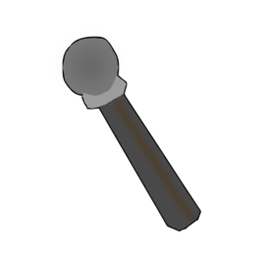
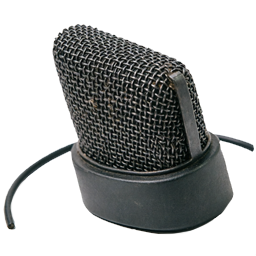
体验优化与内容更新
1.新增了罕见遗物《直播间管理办法》。
2.重新启用了专属遗物消音麦。
3.重做了卡牌软脚，现在为0费能力牌，可提供能量与抽牌。
4.调整了最终攻克、渗透、回踩升级的数值与效果，渗透现在可一次性施加多层易伤与虚弱。
5.调整了杯级丧失的结算时机，并优化了礼尚往来的触发条件。
6.更新了部分卡牌图片与本地化文本。

diff --git a/Scripts/Relics/NoiseCancelingMicrophone.cs b/Scripts/Relics/NoiseCancelingMicrophone.cs
@@ -1,119 +1,119 @@
-// using BaseLib.Abstracts;
-// using BaseLib.Utils;
-// using MegaCrit.Sts2.Core.Commands;
-// using MegaCrit.Sts2.Core.Models;
-// using MegaCrit.Sts2.Core.Entities.Relics;
-// using StsModBloodywolf.Scripts.Pools;
-// using StsModBloodywolf.Scripts.Powers;
-// using MegaCrit.Sts2.Core.GameActions.Multiplayer;
-// using MegaCrit.Sts2.Core.CardSelection;
-// using StsModBloodywolf.Scripts.Cards;
-// using MegaCrit.Sts2.Core.HoverTips;
-// using MegaCrit.Sts2.Core.Entities.Players;
-// using MegaCrit.Sts2.Core.Rooms;
-// using MegaCrit.Sts2.Core.Entities.Cards;
-// using MegaCrit.Sts2.Core.Localization.DynamicVars;
+using BaseLib.Abstracts;
+using BaseLib.Utils;
+using MegaCrit.Sts2.Core.Commands;
+using MegaCrit.Sts2.Core.Models;
+using MegaCrit.Sts2.Core.Entities.Relics;
+using StsModBloodywolf.Scripts.Pools;
+using StsModBloodywolf.Scripts.Powers;
+using MegaCrit.Sts2.Core.GameActions.Multiplayer;
+using MegaCrit.Sts2.Core.CardSelection;
+using StsModBloodywolf.Scripts.Cards;
+using MegaCrit.Sts2.Core.HoverTips;
+using MegaCrit.Sts2.Core.Entities.Players;
+using MegaCrit.Sts2.Core.Rooms;
+using MegaCrit.Sts2.Core.Entities.Cards;
+using MegaCrit.Sts2.Core.Localization.DynamicVars;
 
-// namespace StsModBloodywolf.Scripts.Relics;
+namespace StsModBloodywolf.Scripts.Relics;
 
-// [Pool(typeof(BloodywolfRelicPool))]
-// public class NoiseCancelingMicrophone : CustomRelicModel
-// {
-// 	protected override IEnumerable<DynamicVar> CanonicalVars => new List<DynamicVar>{
-// 		new EnergyVar("EnergyThreshold", 2),
-// 		new EnergyVar(1)
-// 	};
-// 	private bool _usedThisCombat;
-// 	private bool UsedThisCombat
-// 	{
-// 		get
-// 		{
-// 			return _usedThisCombat;
-// 		}
-// 		set
-// 		{
-// 			AssertMutable();
-// 			_usedThisCombat = value;
-// 		}
-// 	}
-//     // 稀有度
-//     public override RelicRarity Rarity => RelicRarity.Rare;
-//     // 小图标
-//     public override string PackedIconPath => $"res://StsModBloodywolf/images/relics/{Id.Entry.ToLowerInvariant()}.png";
-//     // 轮廓图标
-//     protected override string PackedIconOutlinePath => $"res://StsModBloodywolf/images/relics/{Id.Entry.ToLowerInvariant()}.png";
-//     // 大图标
-//     protected override string BigIconPath => $"res://StsModBloodywolf/images/relics/{Id.Entry.ToLowerInvariant()}.png";
-// 	public override Task BeforeCombatStart()
-// 	{
-// 		UsedThisCombat = false;
-// 		base.Status = RelicStatus.Active;
-// 		return Task.CompletedTask;
-// 	}
-// 	public override bool TryModifyEnergyCostInCombat(CardModel card, decimal originalCost, out decimal modifiedCost)
-// 	{
-// 		modifiedCost = originalCost;
-// 		if (card.Owner != base.Owner)
-// 		{
-// 			return false;
-// 		}
-// 		if (card.EnergyCost.GetWithModifiers(CostModifiers.None | CostModifiers.Local) < 2m)
-// 		{
-// 			return false;
-// 		}
-// 		if (card.EnergyCost.CostsX)
-// 		{
-// 			return false;
-// 		}
-// 		if (UsedThisCombat)
-// 		{
-// 			return false;
-// 		}
-// 		bool flag;
-// 		switch (card.Pile?.Type)
-// 		{
-// 		case PileType.Hand:
-// 		case PileType.Play:
-// 			flag = true;
-// 			break;
-// 		default:
-// 			flag = false;
-// 			break;
-// 		}
-// 		if (!flag)
-// 		{
-// 			return false;
-// 		}
-// 		modifiedCost = default(decimal);
-// 		return true;
-// 	}
-// 	public override async Task BeforeCardPlayed(CardPlay cardPlay)
-// 	{
-// 		if (cardPlay.Card.Owner == base.Owner && cardPlay.Card.EnergyCost.GetWithModifiers(CostModifiers.None | CostModifiers.Local) >= 2m && !cardPlay.Card.EnergyCost.CostsX && !UsedThisCombat)
-// 		{
-// 			bool flag;
-// 			switch (cardPlay.Card.Pile?.Type)
-// 			{
-// 			case PileType.Hand:
-// 			case PileType.Play:
-// 				flag = true;
-// 				break;
-// 			default:
-// 				flag = false;
-// 				break;
-// 			}
-// 			if (flag)
-// 			{
-// 				UsedThisCombat = true;
-// 				base.Status = RelicStatus.Normal;
-// 			}
-// 		}
-// 	}
+[Pool(typeof(BloodywolfRelicPool))]
+public class NoiseCancelingMicrophone : CustomRelicModel
+{
+	protected override IEnumerable<DynamicVar> CanonicalVars => new List<DynamicVar>{
+		new EnergyVar("EnergyThreshold", 2),
+		new EnergyVar(1)
+	};
+	private bool _usedThisCombat;
+	private bool UsedThisCombat
+	{
+		get
+		{
+			return _usedThisCombat;
+		}
+		set
+		{
+			AssertMutable();
+			_usedThisCombat = value;
+		}
+	}
+    // 稀有度
+    public override RelicRarity Rarity => RelicRarity.Rare;
+    // 小图标
+    public override string PackedIconPath => $"res://StsModBloodywolf/images/relics/{Id.Entry.ToLowerInvariant()}.png";
+    // 轮廓图标
+    protected override string PackedIconOutlinePath => $"res://StsModBloodywolf/images/relics/{Id.Entry.ToLowerInvariant()}.png";
+    // 大图标
+    protected override string BigIconPath => $"res://StsModBloodywolf/images/relics/{Id.Entry.ToLowerInvariant()}.png";
+	public override Task BeforeCombatStart()
+	{
+		UsedThisCombat = false;
+		base.Status = RelicStatus.Active;
+		return Task.CompletedTask;
+	}
+	public override bool TryModifyEnergyCostInCombat(CardModel card, decimal originalCost, out decimal modifiedCost)
+	{
+		modifiedCost = originalCost;
+		if (card.Owner != base.Owner)
+		{
+			return false;
+		}
+		if (card.EnergyCost.GetWithModifiers(CostModifiers.None | CostModifiers.Local) < 2m)
+		{
+			return false;
+		}
+		if (card.EnergyCost.CostsX)
+		{
+			return false;
+		}
+		if (UsedThisCombat)
+		{
+			return false;
+		}
+		bool flag;
+		switch (card.Pile?.Type)
+		{
+		case PileType.Hand:
+		case PileType.Play:
+			flag = true;
+			break;
+		default:
+			flag = false;
+			break;
+		}
+		if (!flag)
+		{
+			return false;
+		}
+		modifiedCost = default(decimal);
+		return true;
+	}
+	public override async Task BeforeCardPlayed(CardPlay cardPlay)
+	{
+		if (cardPlay.Card.Owner == base.Owner && cardPlay.Card.EnergyCost.GetWithModifiers(CostModifiers.None | CostModifiers.Local) >= 2m && !cardPlay.Card.EnergyCost.CostsX && !UsedThisCombat)
+		{
+			bool flag;
+			switch (cardPlay.Card.Pile?.Type)
+			{
+			case PileType.Hand:
+			case PileType.Play:
+				flag = true;
+				break;
+			default:
+				flag = false;
+				break;
+			}
+			if (flag)
+			{
+				UsedThisCombat = true;
+				base.Status = RelicStatus.Normal;
+			}
+		}
+	}
 
-//     public override Task AfterCombatEnd(CombatRoom _)
-// 	{
-// 		UsedThisCombat = false;
-// 		base.Status = RelicStatus.Normal;
-// 		return Task.CompletedTask;
-// 	}
-// }
+    public override Task AfterCombatEnd(CombatRoom _)
+	{
+		UsedThisCombat = false;
+		base.Status = RelicStatus.Normal;
+		return Task.CompletedTask;
+	}
+}

diff --git a/Scripts/Relics/LiveRoomRule.cs b/Scripts/Relics/LiveRoomRule.cs
@@ -1,0 +1,37 @@
+using BaseLib.Abstracts;
+using BaseLib.Utils;
+using MegaCrit.Sts2.Core.Commands;
+using MegaCrit.Sts2.Core.Models;
+using MegaCrit.Sts2.Core.Entities.Relics;
+using StsModBloodywolf.Scripts.Pools;
+using StsModBloodywolf.Scripts.Powers;
+using MegaCrit.Sts2.Core.GameActions.Multiplayer;
+using MegaCrit.Sts2.Core.CardSelection;
+using StsModBloodywolf.Scripts.Cards;
+using MegaCrit.Sts2.Core.HoverTips;
+using MegaCrit.Sts2.Core.Entities.Players;
+using MegaCrit.Sts2.Core.Entities.Creatures;
+using MegaCrit.Sts2.Core.ValueProps;
+
+namespace StsModBloodywolf.Scripts.Relics;
+
+[Pool(typeof(BloodywolfRelicPool))]
+public class LiveRoomRule : CustomRelicModel
+{
+    // 稀有度
+    public override RelicRarity Rarity => RelicRarity.Uncommon;
+    // 小图标
+    public override string PackedIconPath => $"res://StsModBloodywolf/images/relics/{Id.Entry.ToLowerInvariant()}.png";
+    // 轮廓图标
+    protected override string PackedIconOutlinePath => $"res://StsModBloodywolf/images/relics/{Id.Entry.ToLowerInvariant()}.png";
+    // 大图标
+    protected override string BigIconPath => $"res://StsModBloodywolf/images/relics/{Id.Entry.ToLowerInvariant()}.png";
+	public override async Task AfterPowerAmountChanged(PlayerChoiceContext choiceContext, PowerModel power, decimal amount, Creature? applier, CardModel? cardSource)
+	{
+		if (!(amount >= 0m) && power.Owner == base.Owner.Creature && power is CloutPower)
+		{
+			Flash();
+			await CreatureCmd.Damage(choiceContext, base.Owner.Creature.CombatState.HittableEnemies, -amount, ValueProp.Unblockable | ValueProp.Unpowered, base.Owner.Creature, null);
+		}
+	}
+}

diff --git a/Scripts/Powers/JellyLegsPower.cs b/Scripts/Powers/JellyLegsPower.cs
@@ -6,23 +6,23 @@ using MegaCrit.Sts2.Core.GameActions.Multiplayer;
 using MegaCrit.Sts2.Core.Entities.Creatures;
 using MegaCrit.Sts2.Core.ValueProps;
 using MegaCrit.Sts2.Core.Models;
+using MegaCrit.Sts2.Core.Models.Powers;
 
 namespace StsModBloodywolf.Scripts.Powers;
 
 public sealed class JellyLegsPower : CustomPowerModel
 {
-	public override PowerType Type => PowerType.Buff;
+	public override PowerType Type => PowerType.Debuff;
 
 	public override PowerStackType StackType => PowerStackType.Counter;
 	public override string? CustomPackedIconPath => $"res://StsModBloodywolf/images/powers/{Id.Entry.ToLowerInvariant()}.png";
     public override string? CustomBigIconPath => $"res://StsModBloodywolf/images/powers/{Id.Entry.ToLowerInvariant()}.png";
 
-	public override async Task AfterPowerAmountChanged(PlayerChoiceContext choiceContext, PowerModel power, decimal amount, Creature? applier, CardModel? cardSource)
+	public override async Task AfterDamageReceived(PlayerChoiceContext choiceContext, Creature target, DamageResult result, ValueProp props, Creature? _, CardModel? __)
 	{
-		if (amount < 0m && power is CloutPower && power.Owner == base.Owner && applier == base.Owner && base.CombatState.CurrentSide == base.Owner.Side)
+		if (target == base.Owner && props.IsPoweredAttack() && result.UnblockedDamage > 0)
 		{
-			Flash();
-			await PowerCmd.Apply<OhMyJellyLegsPower>(choiceContext, base.Owner, Amount, base.Owner, null);
+			await PowerCmd.Apply<DexterityPower>(choiceContext, base.Owner, -Amount, base.Owner, null);
 		}
 	}
 }

diff --git a/Scripts/Cards/JellyLegs.cs b/Scripts/Cards/JellyLegs.cs
@@ -25,20 +25,25 @@ public sealed class JellyLegs : BloodywolfCardModel
         HoverTipFactory.FromPower<DexterityPower>()
     };
     public JellyLegs()
-        : base(1, CardType.Power, CardRarity.Uncommon, TargetType.Self)
+        : base(0, CardType.Power, CardRarity.Uncommon, TargetType.Self)
     {
     }
 	protected override IEnumerable<DynamicVar> CanonicalVars => new List<DynamicVar>
 	{
-		new PowerVar<JellyLegsPower>(2m)
+        new EnergyVar(2),
+        new CardsVar(2),
+		new PowerVar<JellyLegsPower>(1m)
 	};
     protected override async Task OnPlayEffect(PlayerChoiceContext choiceContext, CardPlay cardPlay)
     {
+		await PlayerCmd.GainEnergy(base.DynamicVars.Energy.IntValue, base.Owner);
+		await CardPileCmd.Draw(choiceContext, base.DynamicVars.Cards.BaseValue, base.Owner);
         await PowerCmd.Apply<JellyLegsPower>(choiceContext, base.Owner.Creature, base.DynamicVars["JellyLegsPower"].BaseValue, base.Owner.Creature, this);
     }
 
     protected override void OnUpgrade()
     {
-        base.DynamicVars["JellyLegsPower"].UpgradeValueBy(1m);
+        base.DynamicVars.Energy.UpgradeValueBy(1);
+        base.DynamicVars.Cards.UpgradeValueBy(1);
     }
 }

diff --git a/Scripts/Cards/Infiltrate.cs b/Scripts/Cards/Infiltrate.cs
@@ -44,11 +44,8 @@ public sealed class Infiltrate : BloodywolfCardModel
 		ArgumentNullException.ThrowIfNull(cardPlay.Target, "cardPlay.Target");
         int blockAmount = cardPlay.Target.Block;
         int Count = blockAmount / DynamicVars["perBlock"].IntValue;
-        for(int i = 0; i < Count; i++)
-        {
-            await PowerCmd.Apply<VulnerablePower>(choiceContext, cardPlay.Target, 1m, base.Owner.Creature, this);
-            await PowerCmd.Apply<WeakPower>(choiceContext, cardPlay.Target, 1m, base.Owner.Creature, this);
-        }
+        await PowerCmd.Apply<VulnerablePower>(choiceContext, cardPlay.Target, Count, base.Owner.Creature, this);
+        await PowerCmd.Apply<WeakPower>(choiceContext, cardPlay.Target, Count, base.Owner.Creature, this);
     }
 
 	protected override void OnUpgrade()

diff --git a/Scripts/Cards/FinalAssault.cs b/Scripts/Cards/FinalAssault.cs
@@ -54,6 +54,11 @@ public sealed class FinalAssault : BloodywolfCardModel
 		foreach(Creature creature in base.CombatState.HittableEnemies)
 			await TryPlay(creature);
 	}
+	public override async Task AfterCardPlayed(PlayerChoiceContext choiceContext, CardPlay cardPlay)
+	{
+		foreach(Creature creature in base.CombatState.HittableEnemies)
+			await TryPlay(creature);
+	}
 	public override async Task AfterPowerAmountChanged(PlayerChoiceContext choiceContext, PowerModel power, decimal amount, Creature? applier, CardModel? cardSource)
 	{
 		foreach(Creature creature in base.CombatState.HittableEnemies)

diff --git a/Scripts/Powers/CupLossPower.cs b/Scripts/Powers/CupLossPower.cs
@@ -31,7 +31,7 @@ public sealed class CupLossPower : CustomPowerModel, IHealthBarForecastSource
             await CreatureCmd.GainBlock(dealer, new BlockVar(result.BlockedDamage, ValueProp.Unpowered), null);
         }
 	}
-	public override async Task BeforeSideTurnEndEarly(PlayerChoiceContext choiceContext, CombatSide side, IEnumerable<Creature> participants)
+	public override async Task AfterSideTurnEndLate(PlayerChoiceContext choiceContext, CombatSide side, IEnumerable<Creature> participants)
 	{
 		if (!CombatManager.Instance.IsOverOrEnding && side == base.Owner.Side && !base.Owner.IsDead )
 		{

diff --git a/Scripts/Powers/ReciprocityPower.cs b/Scripts/Powers/ReciprocityPower.cs
@@ -20,7 +20,7 @@ public sealed class ReciprocityPower : CustomPowerModel
     public override string? CustomBigIconPath => $"res://StsModBloodywolf/images/powers/{Id.Entry.ToLowerInvariant()}.png";
 	public override async Task AfterBlockGained(Creature creature, decimal amount, ValueProp props, CardModel? cardSource)
     {
-        if (creature != base.Owner && base.CombatState.CurrentSide == base.Owner.Side)
+        if (creature.IsEnemy && base.CombatState.CurrentSide == base.Owner.Side)
         {
             Flash();
             await CreatureCmd.GainBlock(base.Owner, amount, props, null);

diff --git a/Scripts/Cards/BackStomp.cs b/Scripts/Cards/BackStomp.cs
@@ -55,6 +55,5 @@ public sealed class BackStomp : BloodywolfCardModel
     protected override void OnUpgrade()
     {
         base.DynamicVars.Damage.UpgradeValueBy(1m);
-        base.DynamicVars.Cards.UpgradeValueBy(1);
     }
 }
